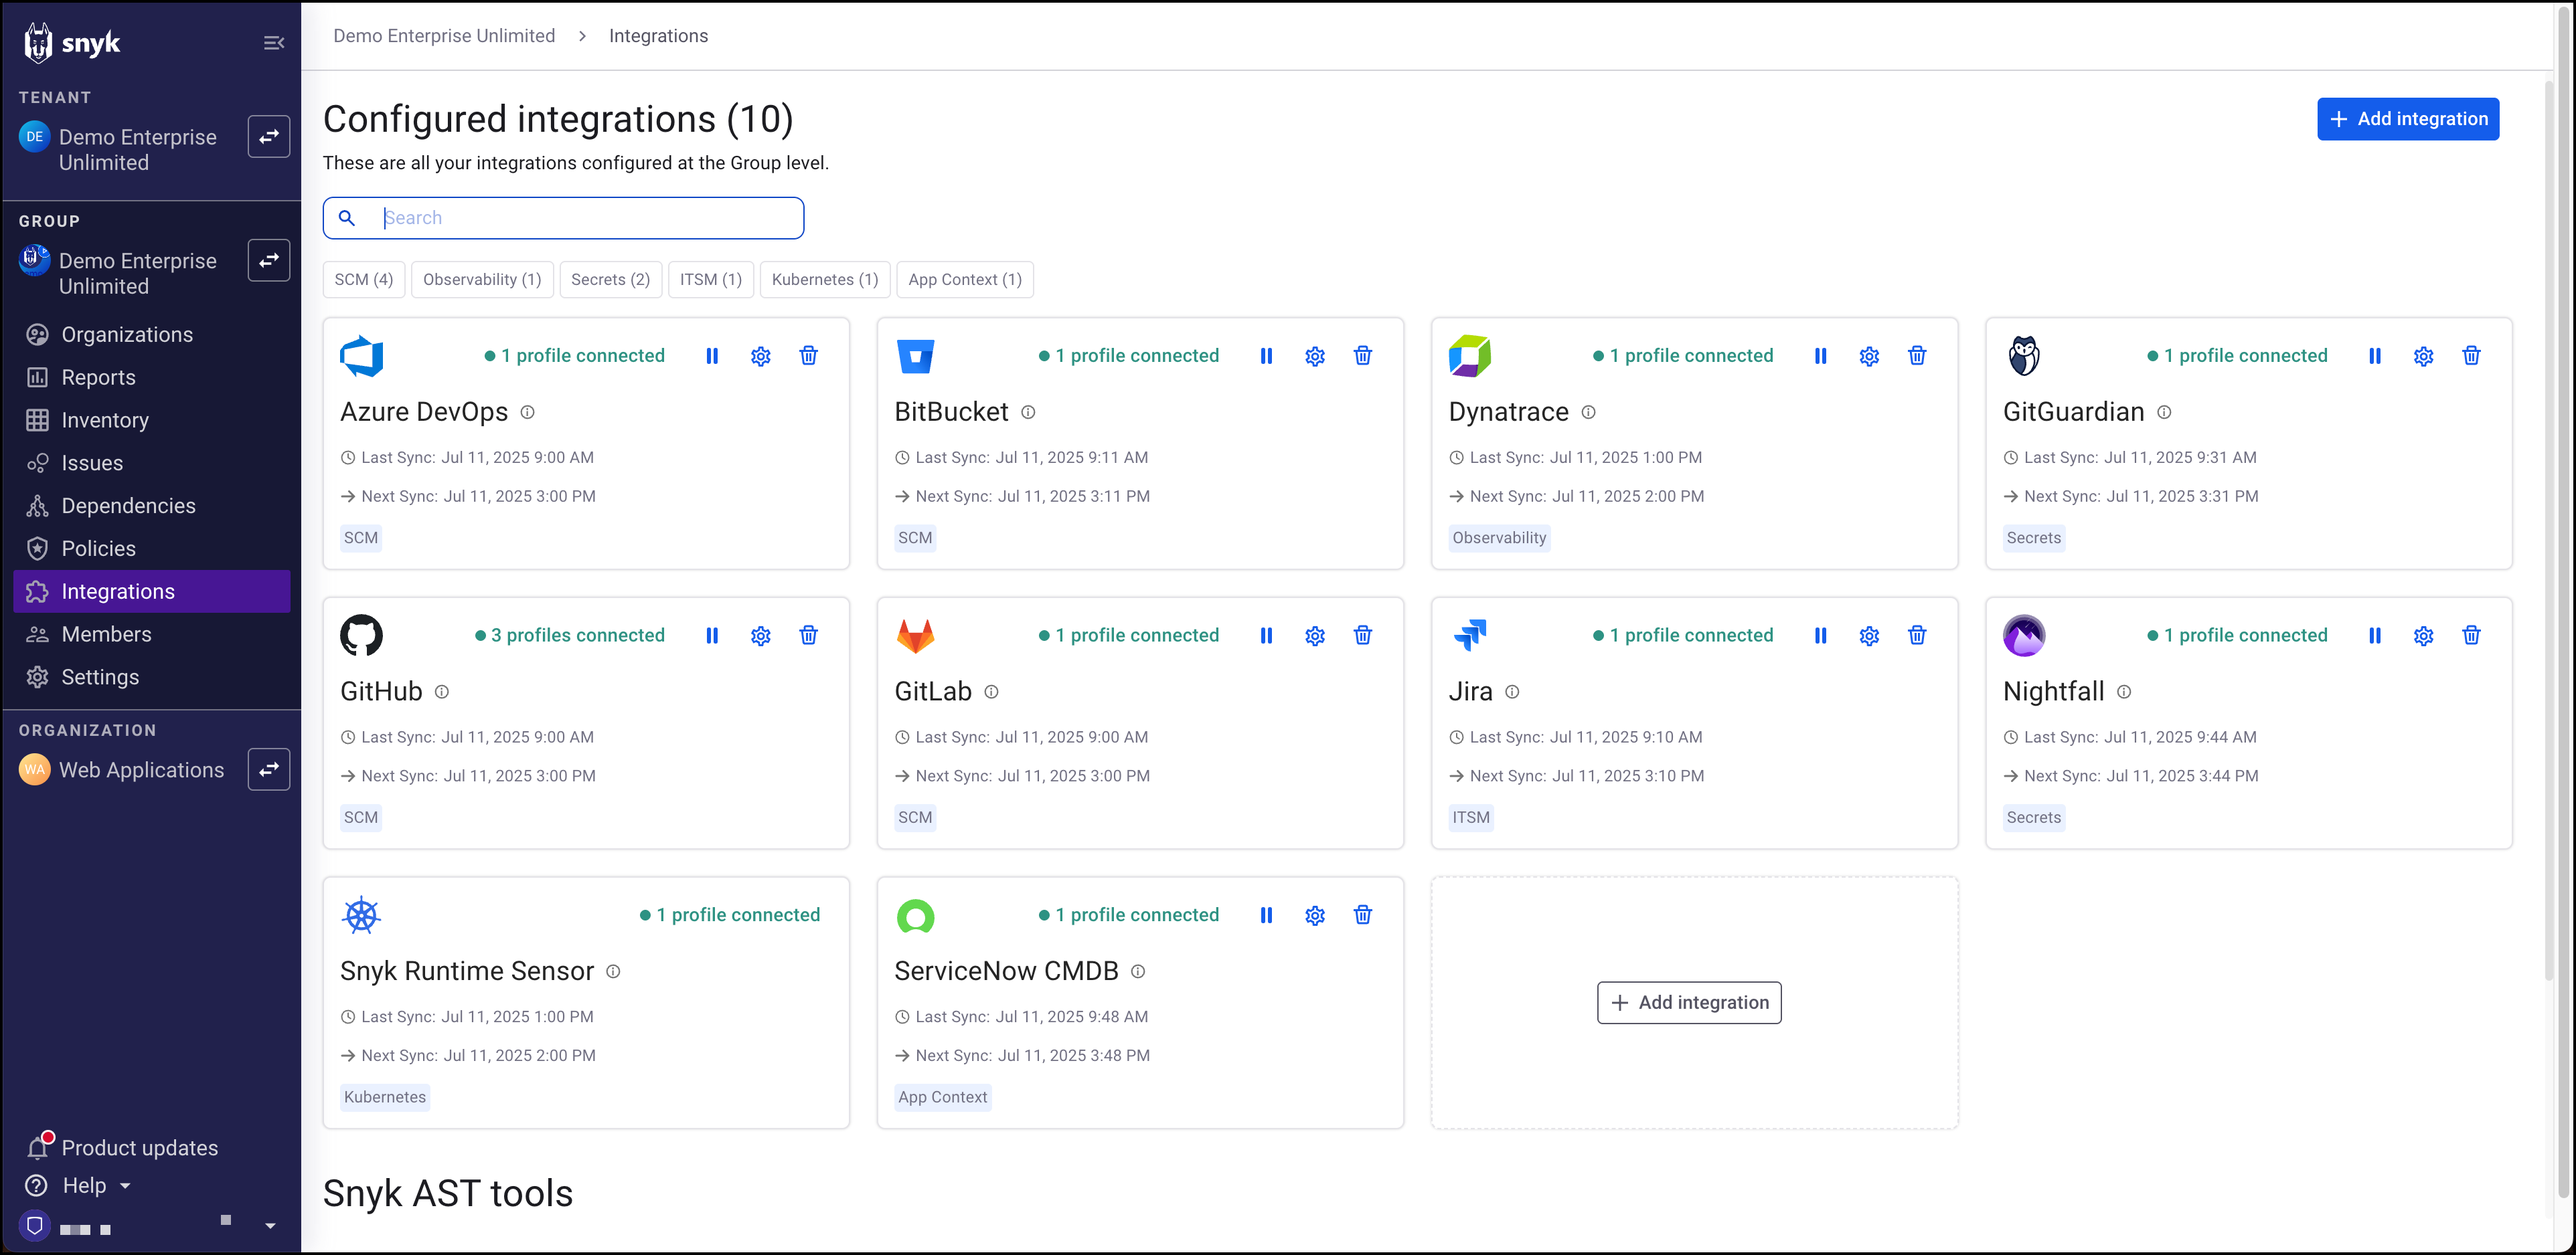
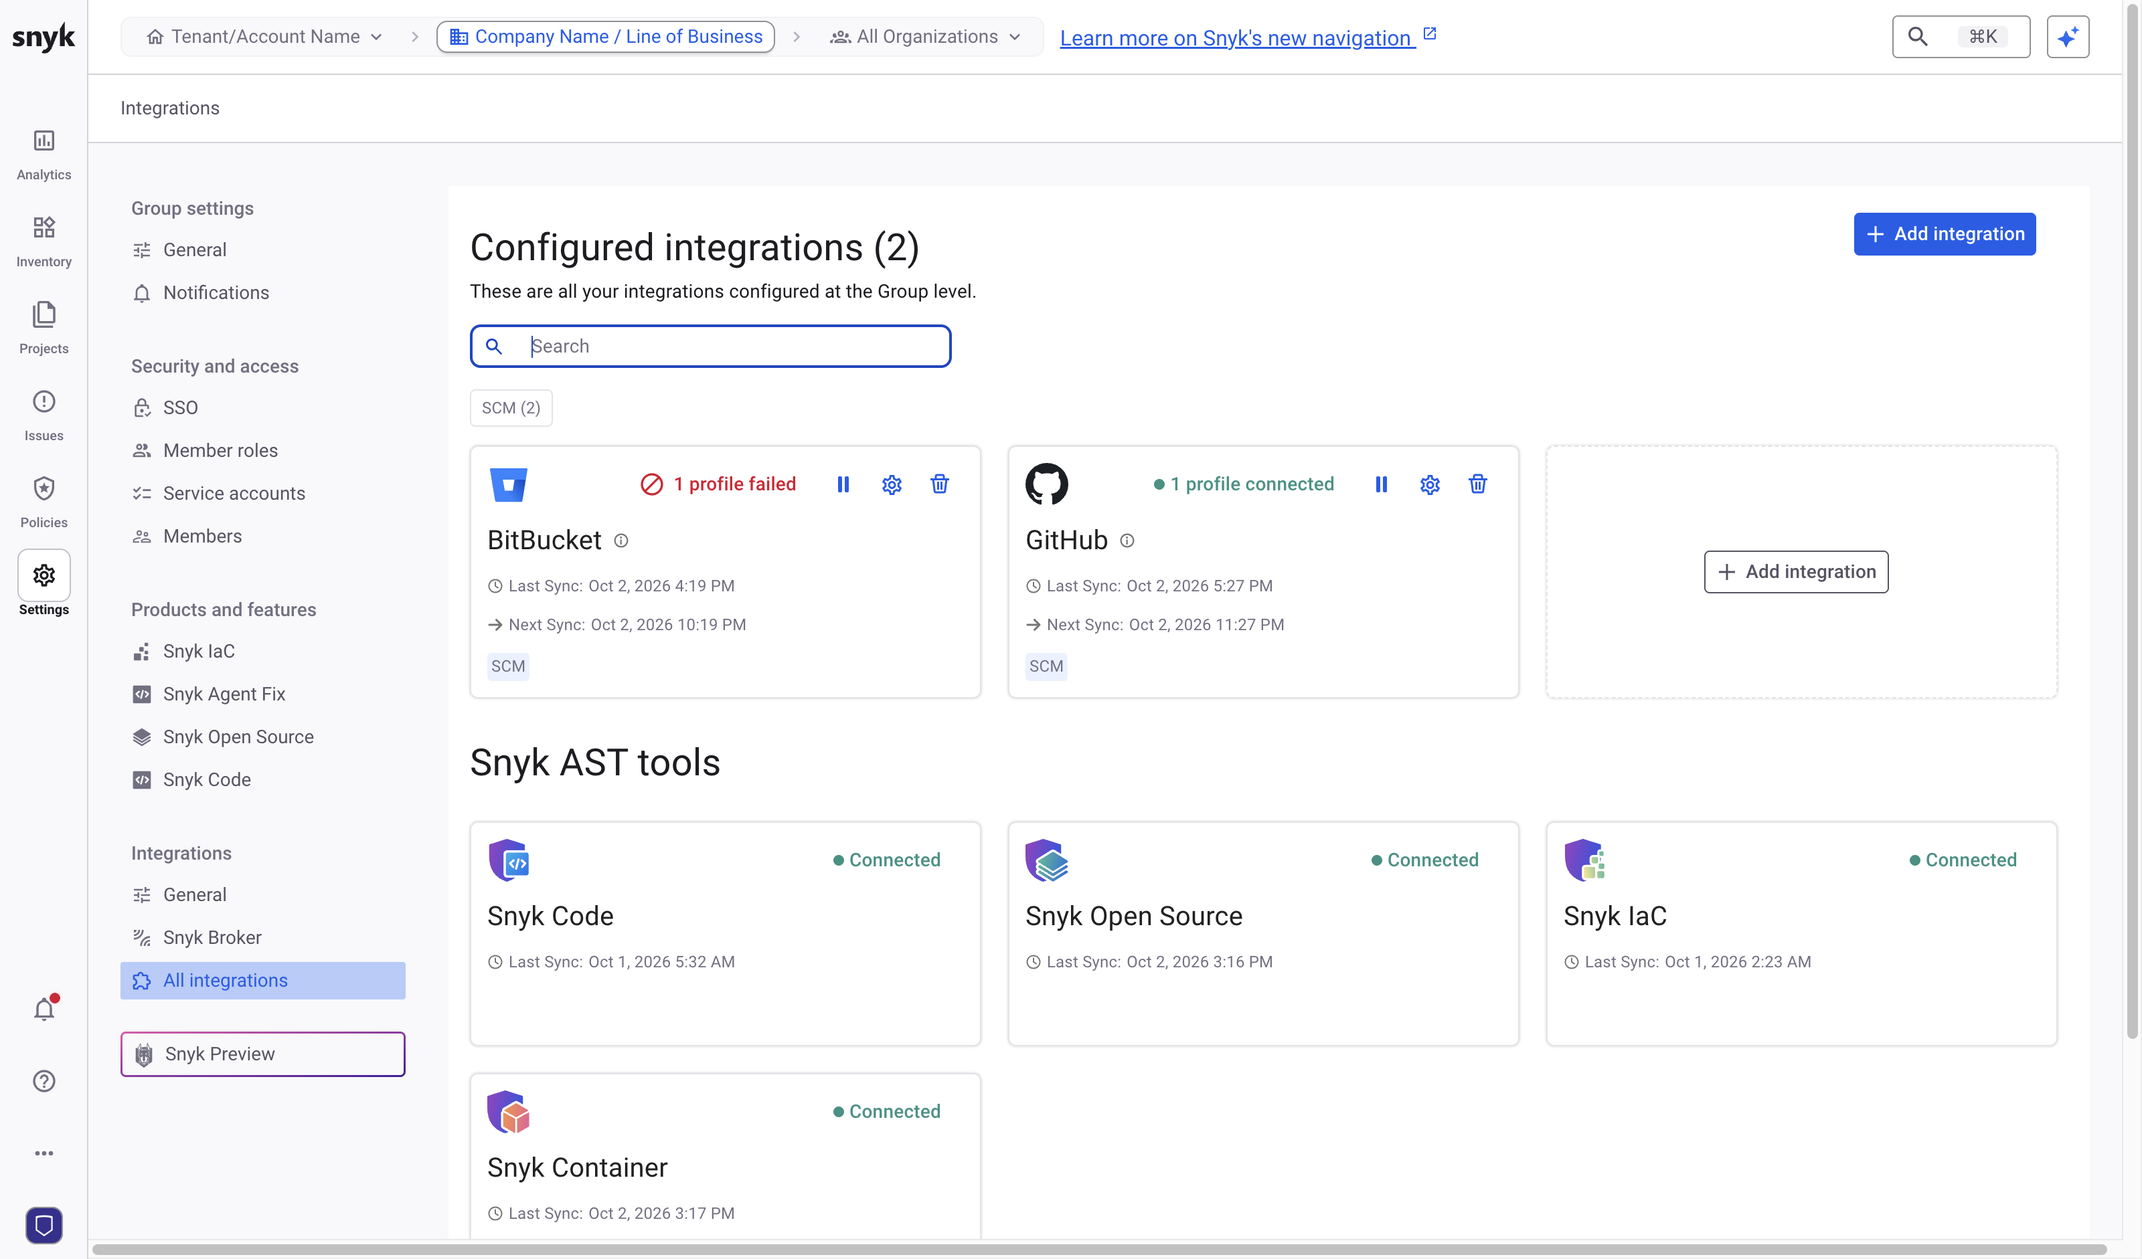
docs: replace classic and broken Discover Snyk screenshots with new-navigation captures
Recapture the Group integrations screen used by the four SCM setup pages and
Set up Snyk Essentials, and replace four Google Docs-hosted images that return
403 to readers outside the Snyk Workspace. Captures come from Tenant/Account
Name > Org Name 1 with the new navigation on, with emails and UUIDs redacted.

diff --git a/discover-snyk/getting-started/pilot-guide/during-the-pilot/review-scan-coverage.md b/discover-snyk/getting-started/pilot-guide/during-the-pilot/review-scan-coverage.md
@@ -15,13 +15,13 @@ Ensure that the Group-level SCM integration is configured.
 2. Navigate to **Settings** > **Integrations** > **All integrations** and find your SCM.
 3. Follow the instructions for your SCM.
 
-<figure><img src="https://lh7-rt.googleusercontent.com/docsz/AD_4nXfVcJKkJhYj17m0dkLnJ1DQNQsyDyfPkRJ-9Gjkf84-XGQuqVuEOY2NCKWd8E_24KByHwmAZY2kUVs8jWzYX_pCpVMRbuwskqNCiAjz7e1dsDmaLzOmWTQL0je9gaf2IHvNFE8dfA?key=i_CNrr-DvB8PGUAzq09BT3pc" alt="Group-level SCM integration on the Integrations tab"><figcaption></figcaption></figure>
+<figure><img src="../../../.gitbook/assets/configure-group-level-integration.png" alt="Group-level SCM integrations in Settings, All integrations"><figcaption></figcaption></figure>
 
 ## Review the Inventory
 
 At Group scope, select **Inventory** in the side menu. The **Overview** tab shows your most important repositories and identifies coverage gaps: which repositories Snyk has tested and which it has not. For details, visit [Manage assets](https://docs.snyk.io/scan-fix-and-prevent/fix/manage-assets).
 
-<figure><img src="https://lh7-rt.googleusercontent.com/docsz/AD_4nXe9jbqqPfkZH6PvNz2pBcNtNKgfphy1GayWURCQnmGxFvQG5cw4vcYcsOpPF78ztH8xjcJKkRWKty4lNlC63bN0S8qP-qcU_EOpvbnbBEaPIgadfRnnVilbYlvR8Uk7U6n6fWyhRw?key=i_CNrr-DvB8PGUAzq09BT3pc" alt="Inventory overview showing coverage gaps across repositories"><figcaption></figcaption></figure>
+<figure><img src="../../../.gitbook/assets/group-inventory-overview-new-navigation.png" alt="Inventory Overview tab showing coverage gaps across repositories"><figcaption></figcaption></figure>
 
 The **All Assets** tab lists every repository, with the number of issues, the Snyk tests that have run, tags ingested from the SCM, contributing developers, and repository freshness.
 

diff --git a/discover-snyk/getting-started/pilot-guide/access-and-deployment/import-repositories.md b/discover-snyk/getting-started/pilot-guide/access-and-deployment/import-repositories.md
@@ -24,11 +24,11 @@ After you set up your SCM integration, import repositories to Snyk.
 
 The import starts immediately. To monitor progress, click **View import logs** on the **Projects** page.
 
-<figure><img src="https://lh7-rt.googleusercontent.com/docsz/AD_4nXcAbYAUF2UkQGgLSwX6fogOh42iosfEe_vyNjhY9wH-SOM_HZCQRxQNQRiI8jPGtcOaHP8ts3C8GoZpfRBLislwqtjgS_TuwUf01rH9gf6W0xxdC0Mq2Tflw3qDdTomfd5n6121?key=i_CNrr-DvB8PGUAzq09BT3pc" alt="Import progress shown in the import logs"><figcaption></figcaption></figure>
+<figure><img src="../../../.gitbook/assets/projects-import-logs-new-navigation.png" alt="Import progress shown in the import logs"><figcaption></figcaption></figure>
 
 All imported repositories appear on the **Projects** page.
 
-<figure><img src="https://lh7-rt.googleusercontent.com/docsz/AD_4nXeaN56eVc58YuGp2c_pQ2Eo_6D5G3ms6bWCs17pk1zYHXCrgPDY6mH6T-0wWCfmdnp9ot55q6f9TznZMBtpl_KYAsUxp78NBdiu1zraOY9fSp7ArsfANKxKoDBMkLqA3hVyBM9j?key=i_CNrr-DvB8PGUAzq09BT3pc" alt="Imported repositories listed on the Projects page"><figcaption></figcaption></figure>
+<figure><img src="../../../.gitbook/assets/projects-list-new-navigation.png" alt="Imported repositories listed on the Projects page"><figcaption></figcaption></figure>
 
 Continue monitoring the import in the import logs, or select an imported repository to start reviewing its vulnerabilities.
 
